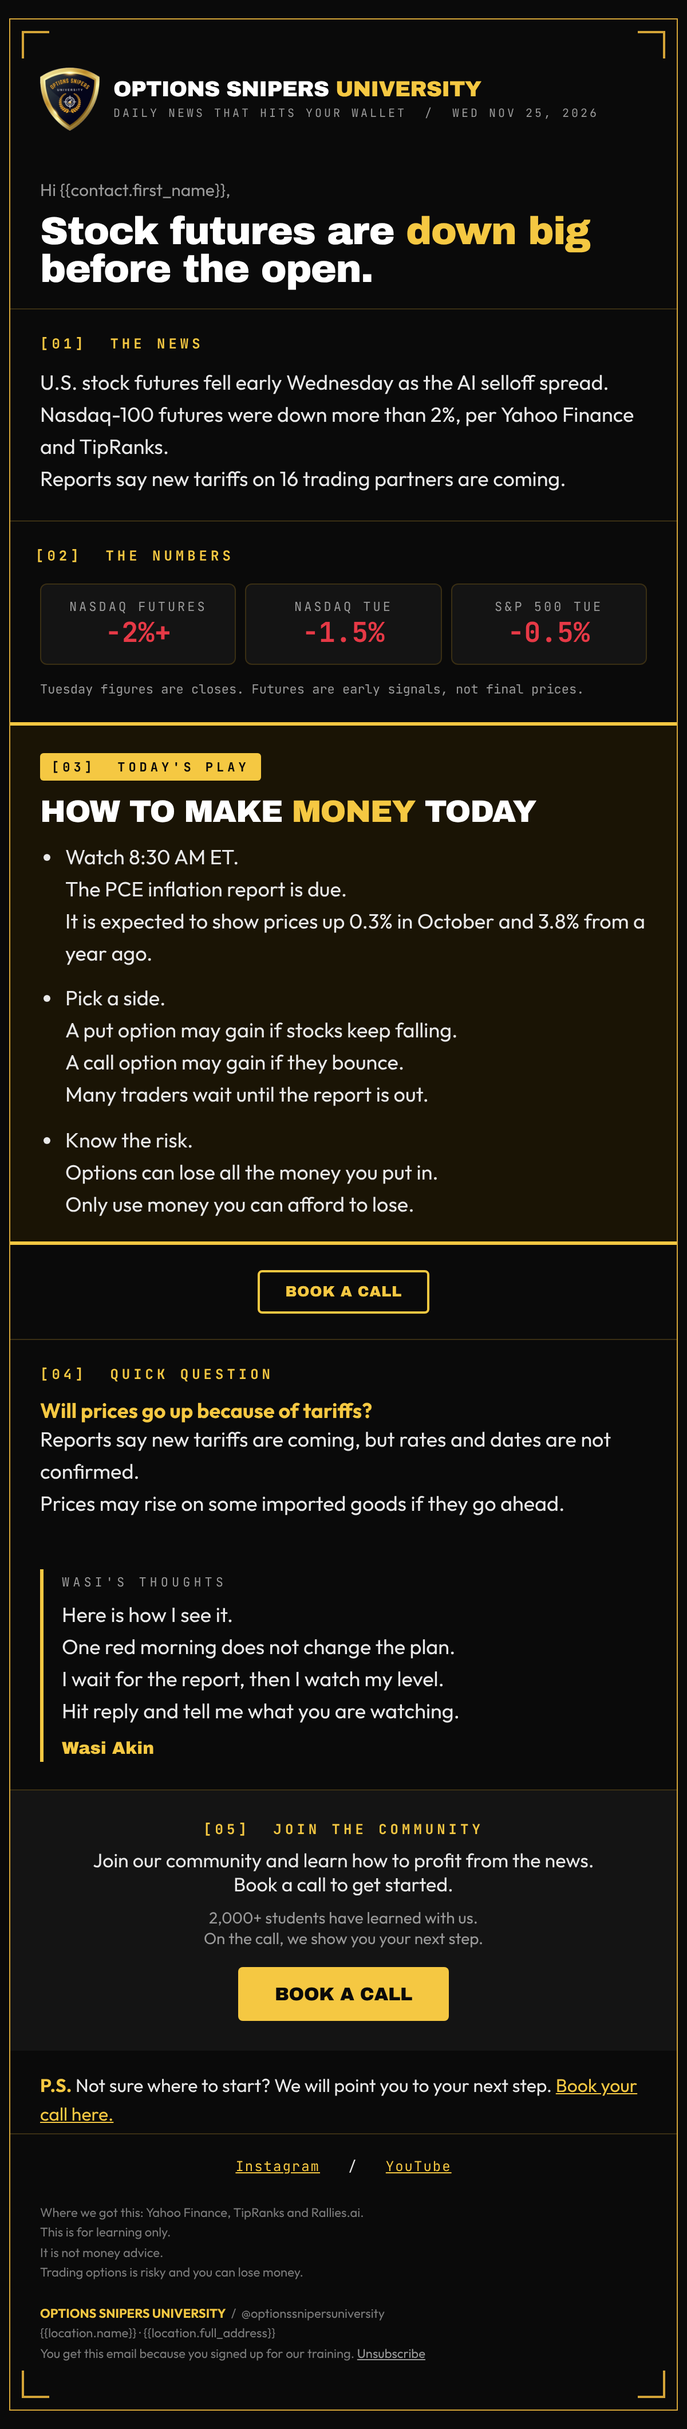
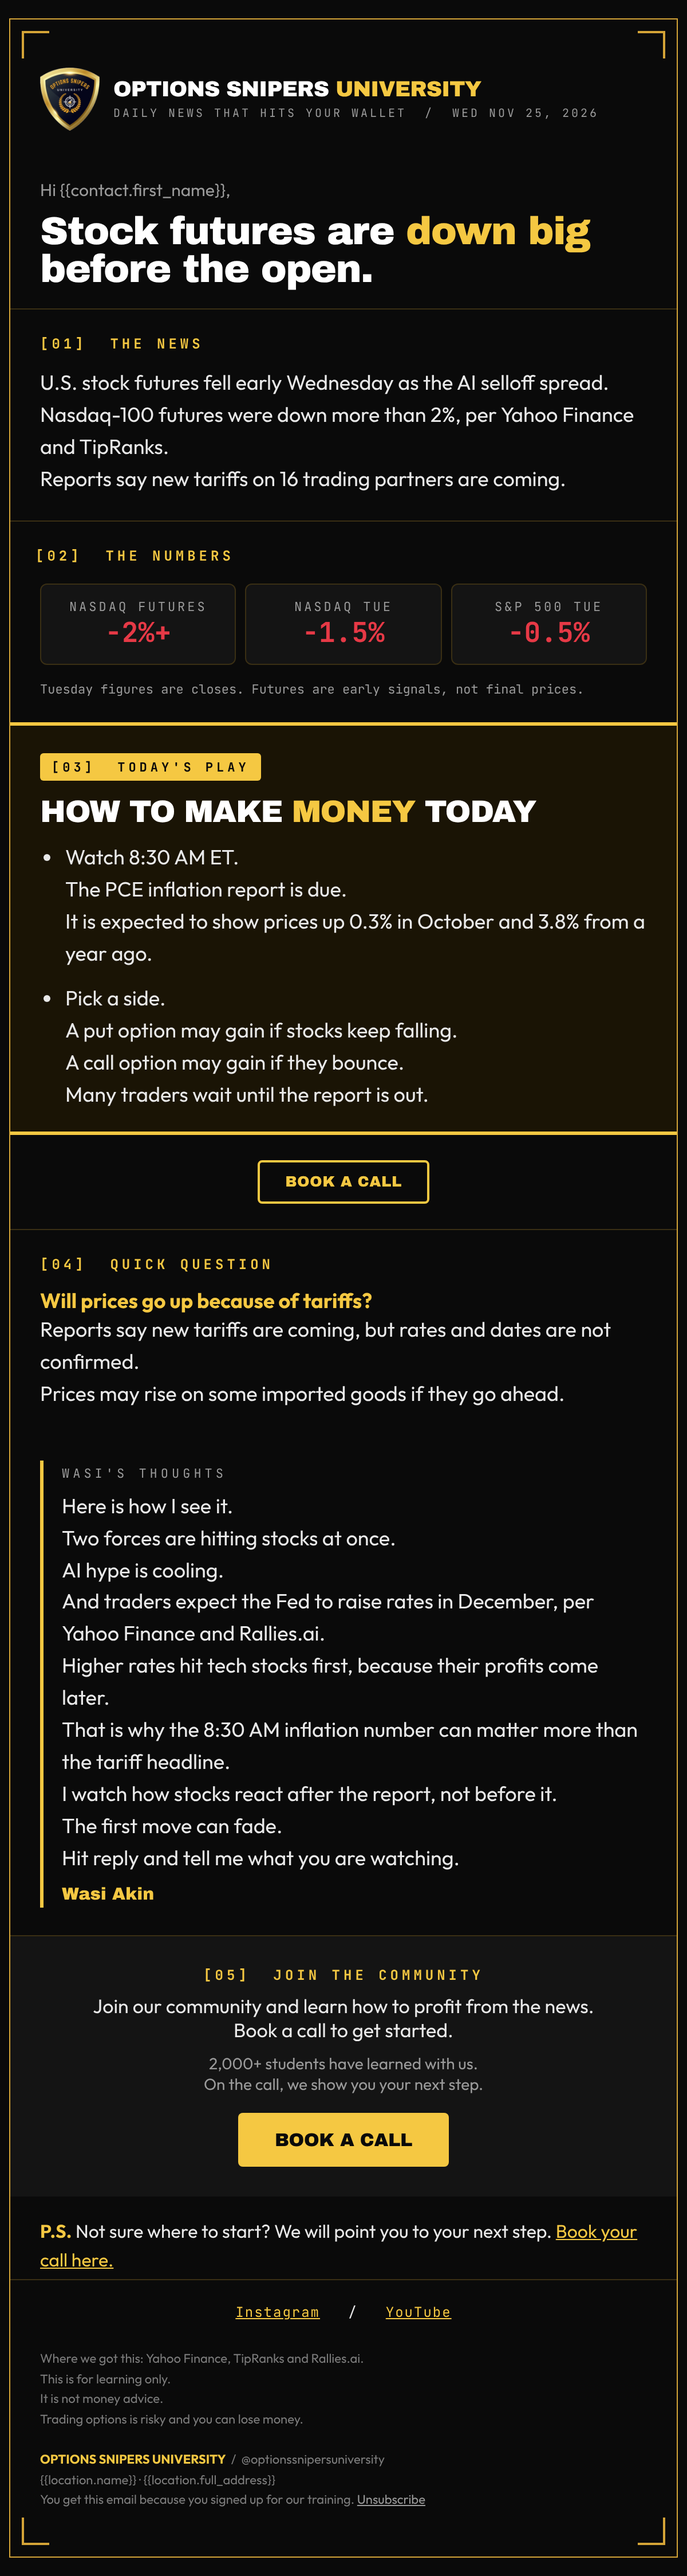
Newsletter: more insightful Wasi's Thoughts, remove Know the risk bullet
Claude-Session: https://claude.ai/code/session_012Jnj24KkCLcRRnciaad67C

diff --git a/newsletter/sent/2026-11-25/newsletter-2026-11-25.html b/newsletter/sent/2026-11-25/newsletter-2026-11-25.html
@@ -11,10 +11,10 @@
 <tr><td style="padding:24px 26px 18px;"><div style="font-family:'Outfit',Arial,Helvetica,sans-serif;font-size:15px;color:#9a9a9a;">Hi {{contact.first_name}},</div><h1 style="margin:10px 0 0;font-family:'Archivo Black','Arial Black',Arial,sans-serif;font-weight:normal;letter-spacing:-0.025em;font-size:34px;line-height:0.98;color:#ffffff;">Stock futures are <span style="color:#F5C842;">down big</span> before the open.</h1></td></tr>
 <tr><td style="padding:22px 26px;border-top:1px solid #3a2f14;"><div style="font-family:'JetBrains Mono','Courier New',monospace;font-size:12px;font-weight:bold;letter-spacing:3px;color:#F5C842;margin-bottom:12px;">[01] &nbsp;THE NEWS</div><p style="font-family:'Outfit',Arial,Helvetica,sans-serif;font-size:18px;line-height:1.55;color:#E9E9E9;margin:0;">U.S. stock futures fell early Wednesday as the AI selloff spread.<br>Nasdaq-100 futures were down more than 2%, per Yahoo Finance and TipRanks.<br>Reports say new tariffs on 16 trading partners are coming.</p></td></tr>
 <tr><td style="padding:22px 22px;border-top:1px solid #3a2f14;"><div style="font-family:'JetBrains Mono','Courier New',monospace;font-size:12px;font-weight:bold;letter-spacing:3px;color:#F5C842;margin-bottom:12px;">[02] &nbsp;THE NUMBERS</div><table role="presentation" width="100%" cellpadding="0" cellspacing="0"><tr><td width="33%" style="padding:4px;"><div style="background:#141414;border:1px solid #3a2f14;border-radius:6px;padding:12px 6px;text-align:center;"><div style="font-family:'JetBrains Mono','Courier New',monospace;font-size:11px;letter-spacing:2px;color:#9a9a9a;">NASDAQ FUTURES</div><div style="font-family:'JetBrains Mono','Courier New',monospace;font-size:24px;font-weight:bold;color:#E63946;">-2%+</div></div></td><td width="33%" style="padding:4px;"><div style="background:#141414;border:1px solid #3a2f14;border-radius:6px;padding:12px 6px;text-align:center;"><div style="font-family:'JetBrains Mono','Courier New',monospace;font-size:11px;letter-spacing:2px;color:#9a9a9a;">NASDAQ TUE</div><div style="font-family:'JetBrains Mono','Courier New',monospace;font-size:24px;font-weight:bold;color:#E63946;">-1.5%</div></div></td><td width="33%" style="padding:4px;"><div style="background:#141414;border:1px solid #3a2f14;border-radius:6px;padding:12px 6px;text-align:center;"><div style="font-family:'JetBrains Mono','Courier New',monospace;font-size:11px;letter-spacing:2px;color:#9a9a9a;">S&amp;P 500 TUE</div><div style="font-family:'JetBrains Mono','Courier New',monospace;font-size:24px;font-weight:bold;color:#E63946;">-0.5%</div></div></td></tr></table><p style="font-family:'JetBrains Mono','Courier New',monospace;font-size:11px;color:#9a9a9a;margin:10px 4px 0;">Tuesday figures are closes. Futures are early signals, not final prices.</p></td></tr>
-<tr><td style="padding:0;border-top:3px solid #F5C842;border-bottom:3px solid #F5C842;background:#1a1405;"><table role="presentation" width="100%" cellpadding="0" cellspacing="0"><tr><td style="padding:24px 26px 6px;"><span style="display:inline-block;background:#F5C842;color:#0A0A0A;font-family:'JetBrains Mono','Courier New',monospace;font-size:11px;font-weight:bold;letter-spacing:3px;padding:5px 10px;border-radius:3px;">[03] &nbsp;TODAY'S PLAY</span><div style="font-family:'Archivo Black','Arial Black',Arial,sans-serif;font-size:27px;letter-spacing:-0.025em;line-height:1;color:#ffffff;margin:14px 0 12px;">HOW TO MAKE <span style="color:#F5C842;">MONEY</span> TODAY</div><ul style="font-family:'Outfit',Arial,Helvetica,sans-serif;font-size:18px;line-height:1.55;color:#E9E9E9;margin:0;padding-left:22px;margin:0;"><li style="margin-bottom:12px;">Watch 8:30 AM ET.<br>The PCE inflation report is due.<br>It is expected to show prices up 0.3% in October and 3.8% from a year ago.</li><li style="margin-bottom:12px;">Pick a side.<br>A put option may gain if stocks keep falling.<br>A call option may gain if they bounce.<br>Many traders wait until the report is out.</li><li style="margin-bottom:12px;">Know the risk.<br>Options can lose all the money you put in.<br>Only use money you can afford to lose.</li></ul></td></tr></table></td></tr>
+<tr><td style="padding:0;border-top:3px solid #F5C842;border-bottom:3px solid #F5C842;background:#1a1405;"><table role="presentation" width="100%" cellpadding="0" cellspacing="0"><tr><td style="padding:24px 26px 6px;"><span style="display:inline-block;background:#F5C842;color:#0A0A0A;font-family:'JetBrains Mono','Courier New',monospace;font-size:11px;font-weight:bold;letter-spacing:3px;padding:5px 10px;border-radius:3px;">[03] &nbsp;TODAY'S PLAY</span><div style="font-family:'Archivo Black','Arial Black',Arial,sans-serif;font-size:27px;letter-spacing:-0.025em;line-height:1;color:#ffffff;margin:14px 0 12px;">HOW TO MAKE <span style="color:#F5C842;">MONEY</span> TODAY</div><ul style="font-family:'Outfit',Arial,Helvetica,sans-serif;font-size:18px;line-height:1.55;color:#E9E9E9;margin:0;padding-left:22px;margin:0;"><li style="margin-bottom:12px;">Watch 8:30 AM ET.<br>The PCE inflation report is due.<br>It is expected to show prices up 0.3% in October and 3.8% from a year ago.</li><li style="margin-bottom:12px;">Pick a side.<br>A put option may gain if stocks keep falling.<br>A call option may gain if they bounce.<br>Many traders wait until the report is out.</li></ul></td></tr></table></td></tr>
 <tr><td align="center" style="padding:22px 26px 22px;"><a href="https://www.optionssnipers.ai" style="display:inline-block;border:2px solid #F5C842;color:#F5C842;font-family:'Archivo Black','Arial Black',Arial,sans-serif;font-size:13px;letter-spacing:0.02em;text-decoration:none;padding:10px 22px;border-radius:4px;">BOOK A CALL</a></td></tr>
 <tr><td style="padding:22px 26px;border-top:1px solid #3a2f14;"><div style="font-family:'JetBrains Mono','Courier New',monospace;font-size:12px;font-weight:bold;letter-spacing:3px;color:#F5C842;margin-bottom:12px;">[04] &nbsp;QUICK QUESTION</div><div style="margin-bottom:16px;"><div style="font-family:'Outfit',Arial,Helvetica,sans-serif;font-size:18px;font-weight:bold;color:#F5C842;">Will prices go up because of tariffs?</div><div style="font-family:'Outfit',Arial,Helvetica,sans-serif;font-size:18px;line-height:1.55;color:#E9E9E9;margin:0;">Reports say new tariffs are coming, but rates and dates are not confirmed.<br>Prices may rise on some imported goods if they go ahead.</div></div></td></tr>
-<tr><td style="padding:6px 26px 24px;"><table role="presentation" width="100%" cellpadding="0" cellspacing="0"><tr><td style="border-left:3px solid #F5C842;padding:4px 0 4px 16px;"><div style="font-family:'JetBrains Mono','Courier New',monospace;font-size:11px;letter-spacing:3px;color:#9a9a9a;margin-bottom:8px;">WASI'S THOUGHTS</div><div style="font-family:'Outfit',Arial,Helvetica,sans-serif;font-size:18px;line-height:1.55;color:#E9E9E9;margin:0;">Here is how I see it.<br>One red morning does not change the plan.<br>I wait for the report, then I watch my level.<br>Hit reply and tell me what you are watching.</div><div style="font-family:'Archivo Black','Arial Black',Arial,sans-serif;font-size:15px;color:#F5C842;margin-top:10px;">Wasi Akin</div></td></tr></table></td></tr>
+<tr><td style="padding:6px 26px 24px;"><table role="presentation" width="100%" cellpadding="0" cellspacing="0"><tr><td style="border-left:3px solid #F5C842;padding:4px 0 4px 16px;"><div style="font-family:'JetBrains Mono','Courier New',monospace;font-size:11px;letter-spacing:3px;color:#9a9a9a;margin-bottom:8px;">WASI'S THOUGHTS</div><div style="font-family:'Outfit',Arial,Helvetica,sans-serif;font-size:18px;line-height:1.55;color:#E9E9E9;margin:0;">Here is how I see it.<br>Two forces are hitting stocks at once.<br>AI hype is cooling.<br>And traders expect the Fed to raise rates in December, per Yahoo Finance and Rallies.ai.<br>Higher rates hit tech stocks first, because their profits come later.<br>That is why the 8:30 AM inflation number can matter more than the tariff headline.<br>I watch how stocks react after the report, not before it.<br>The first move can fade.<br>Hit reply and tell me what you are watching.</div><div style="font-family:'Archivo Black','Arial Black',Arial,sans-serif;font-size:15px;color:#F5C842;margin-top:10px;">Wasi Akin</div></td></tr></table></td></tr>
 <tr><td align="center" style="padding:26px;border-top:1px solid #3a2f14;background:#141414;"><div style="font-family:'JetBrains Mono','Courier New',monospace;font-size:12px;font-weight:bold;letter-spacing:3px;color:#F5C842;margin-bottom:8px;">[05] &nbsp;JOIN THE COMMUNITY</div><div style="font-family:'Outfit',Arial,Helvetica,sans-serif;font-size:17px;color:#E9E9E9;margin-bottom:16px;">Join our community and learn how to profit from the news.<br>Book a call to get started.</div><div style="font-family:'Outfit',Arial,Helvetica,sans-serif;font-size:14px;color:#9a9a9a;margin:-6px 0 16px;">2,000+ students have learned with us.<br>On the call, we show you your next step.</div><a href="https://www.optionssnipers.ai" style="display:inline-block;background:#F5C842;color:#0A0A0A;font-family:'Archivo Black','Arial Black',Arial,sans-serif;font-size:16px;letter-spacing:-0.01em;text-decoration:none;padding:15px 32px;border-radius:4px;">BOOK A CALL</a></td></tr>
 <tr><td style="padding:18px 26px 4px;font-family:'Outfit',Arial,Helvetica,sans-serif;font-size:16px;line-height:1.55;color:#E9E9E9;"><strong style="color:#F5C842;">P.S.</strong> Not sure where to start? We will point you to your next step. <a href="https://www.optionssnipers.ai" style="color:#F5C842;">Book your call here.</a></td></tr>
 <tr><td align="center" style="padding:20px 26px 4px;border-top:1px solid #3a2f14;font-family:'JetBrains Mono','Courier New',monospace;font-size:12px;letter-spacing:1px;"><a href="https://www.instagram.com/optionssnipersuniversity" style="color:#F5C842;text-decoration:underline;">Instagram</a> &nbsp;&nbsp;/&nbsp;&nbsp; <a href="https://www.youtube.com/channel/UCYdhQjWVViYLeouiSkUQpXQ" style="color:#F5C842;text-decoration:underline;">YouTube</a></td></tr>

diff --git a/newsletter/make_daily.py b/newsletter/make_daily.py
@@ -27,9 +27,9 @@ v={'SUBJ':'Futures sink as the AI selloff spreads','PRE':'Tariff news and a big 
 'NEWS':'U.S. stock futures fell early Wednesday as the AI selloff spread. Nasdaq-100 futures were down more than 2%, per Yahoo Finance and TipRanks. Reports say new tariffs on 16 trading partners are coming.',
 'T1':('NASDAQ FUTURES','-2%+',RED),'T2':('NASDAQ TUE','-1.5%',RED),'T3':('S&amp;P 500 TUE','-0.5%',RED),
 'NUMNOTE':'Tuesday figures are closes. Futures are early signals, not final prices.',
-'BUL':['Watch 8:30 AM ET. The PCE inflation report is due. It is expected to show prices up 0.3% in October and 3.8% from a year ago.','Pick a side. A put option may gain if stocks keep falling. A call option may gain if they bounce. Many traders wait until the report is out.','Know the risk. Options can lose all the money you put in. Only use money you can afford to lose.'],
+'BUL':['Watch 8:30 AM ET. The PCE inflation report is due. It is expected to show prices up 0.3% in October and 3.8% from a year ago.','Pick a side. A put option may gain if stocks keep falling. A call option may gain if they bounce. Many traders wait until the report is out.'],
 'QA':[('Will prices go up because of tariffs?','Reports say new tariffs are coming, but rates and dates are not confirmed. Prices may rise on some imported goods if they go ahead.')],
-'MIDBTN':'BOOK A CALL','NOTE':'Here is how I see it. One red morning does not change the plan. I wait for the report, then I watch my level. Hit reply and tell me what you are watching.',
+'MIDBTN':'BOOK A CALL','NOTE':'Here is how I see it. Two forces are hitting stocks at once. AI hype is cooling. And traders expect the Fed to raise rates in December, per Yahoo Finance and Rallies.ai. Higher rates hit tech stocks first, because their profits come later. That is why the 8:30 AM inflation number can matter more than the tariff headline. I watch how stocks react after the report, not before it. The first move can fade. Hit reply and tell me what you are watching.',
 'CTATEXT':'Join our community and learn how to profit from the news. Book a call to get started.','TRUST':'2,000+ students have learned with us. On the call, we show you your next step.','CTABTN':'BOOK A CALL','CTAURL':'https://www.optionssnipers.ai','PS':'Not sure where to start? We will point you to your next step.','PSLINK':'Book your call here.','SRC':'Yahoo Finance, TipRanks and Rallies.ai'}
 logo='https://raw.githubusercontent.com/optionssnipers/wall-street-awards/main/newsletter/osu-logo.png'
 open(f'/mnt/user-data/outputs/newsletter-{DATE_TAG}.html','w').write(page(v,logo,'',fonts='',ICON=''))
@@ -42,7 +42,7 @@ rep={'[[DATE]]':v['DATE'],'[[HEADLINE]]':'Stock futures are down big before the 
 '[[Q1]]':v['QA'][0][0],'[[A1]]':v['QA'][0][1],'[[WASI NOTE]] Hit reply and tell me what you are watching.':v['NOTE'],
 '[[BOOKING_LINK]]':v['CTAURL'],'[[SOURCES]]':v['SRC']}
 for k,x in rep.items(): t=t.replace(k,x)
-t=t.replace('- Know the risk. Options can lose all the money you put in. Only use money you can afford to lose.','- '+v['BUL'][2])
+t=t.replace('- Know the risk. Options can lose all the money you put in. Only use money you can afford to lose.\n','')
 open(f'/mnt/user-data/outputs/newsletter-{DATE_TAG}.txt','w').write(t)
 open(f'/mnt/user-data/outputs/newsletter-{DATE_TAG}-subject.txt','w').write('SUBJECT: '+v['SUBJ']+'\nPREHEADER: '+v['PRE']+'\n')
 print(re.findall(r'\[\[.*?\]\]',t))
